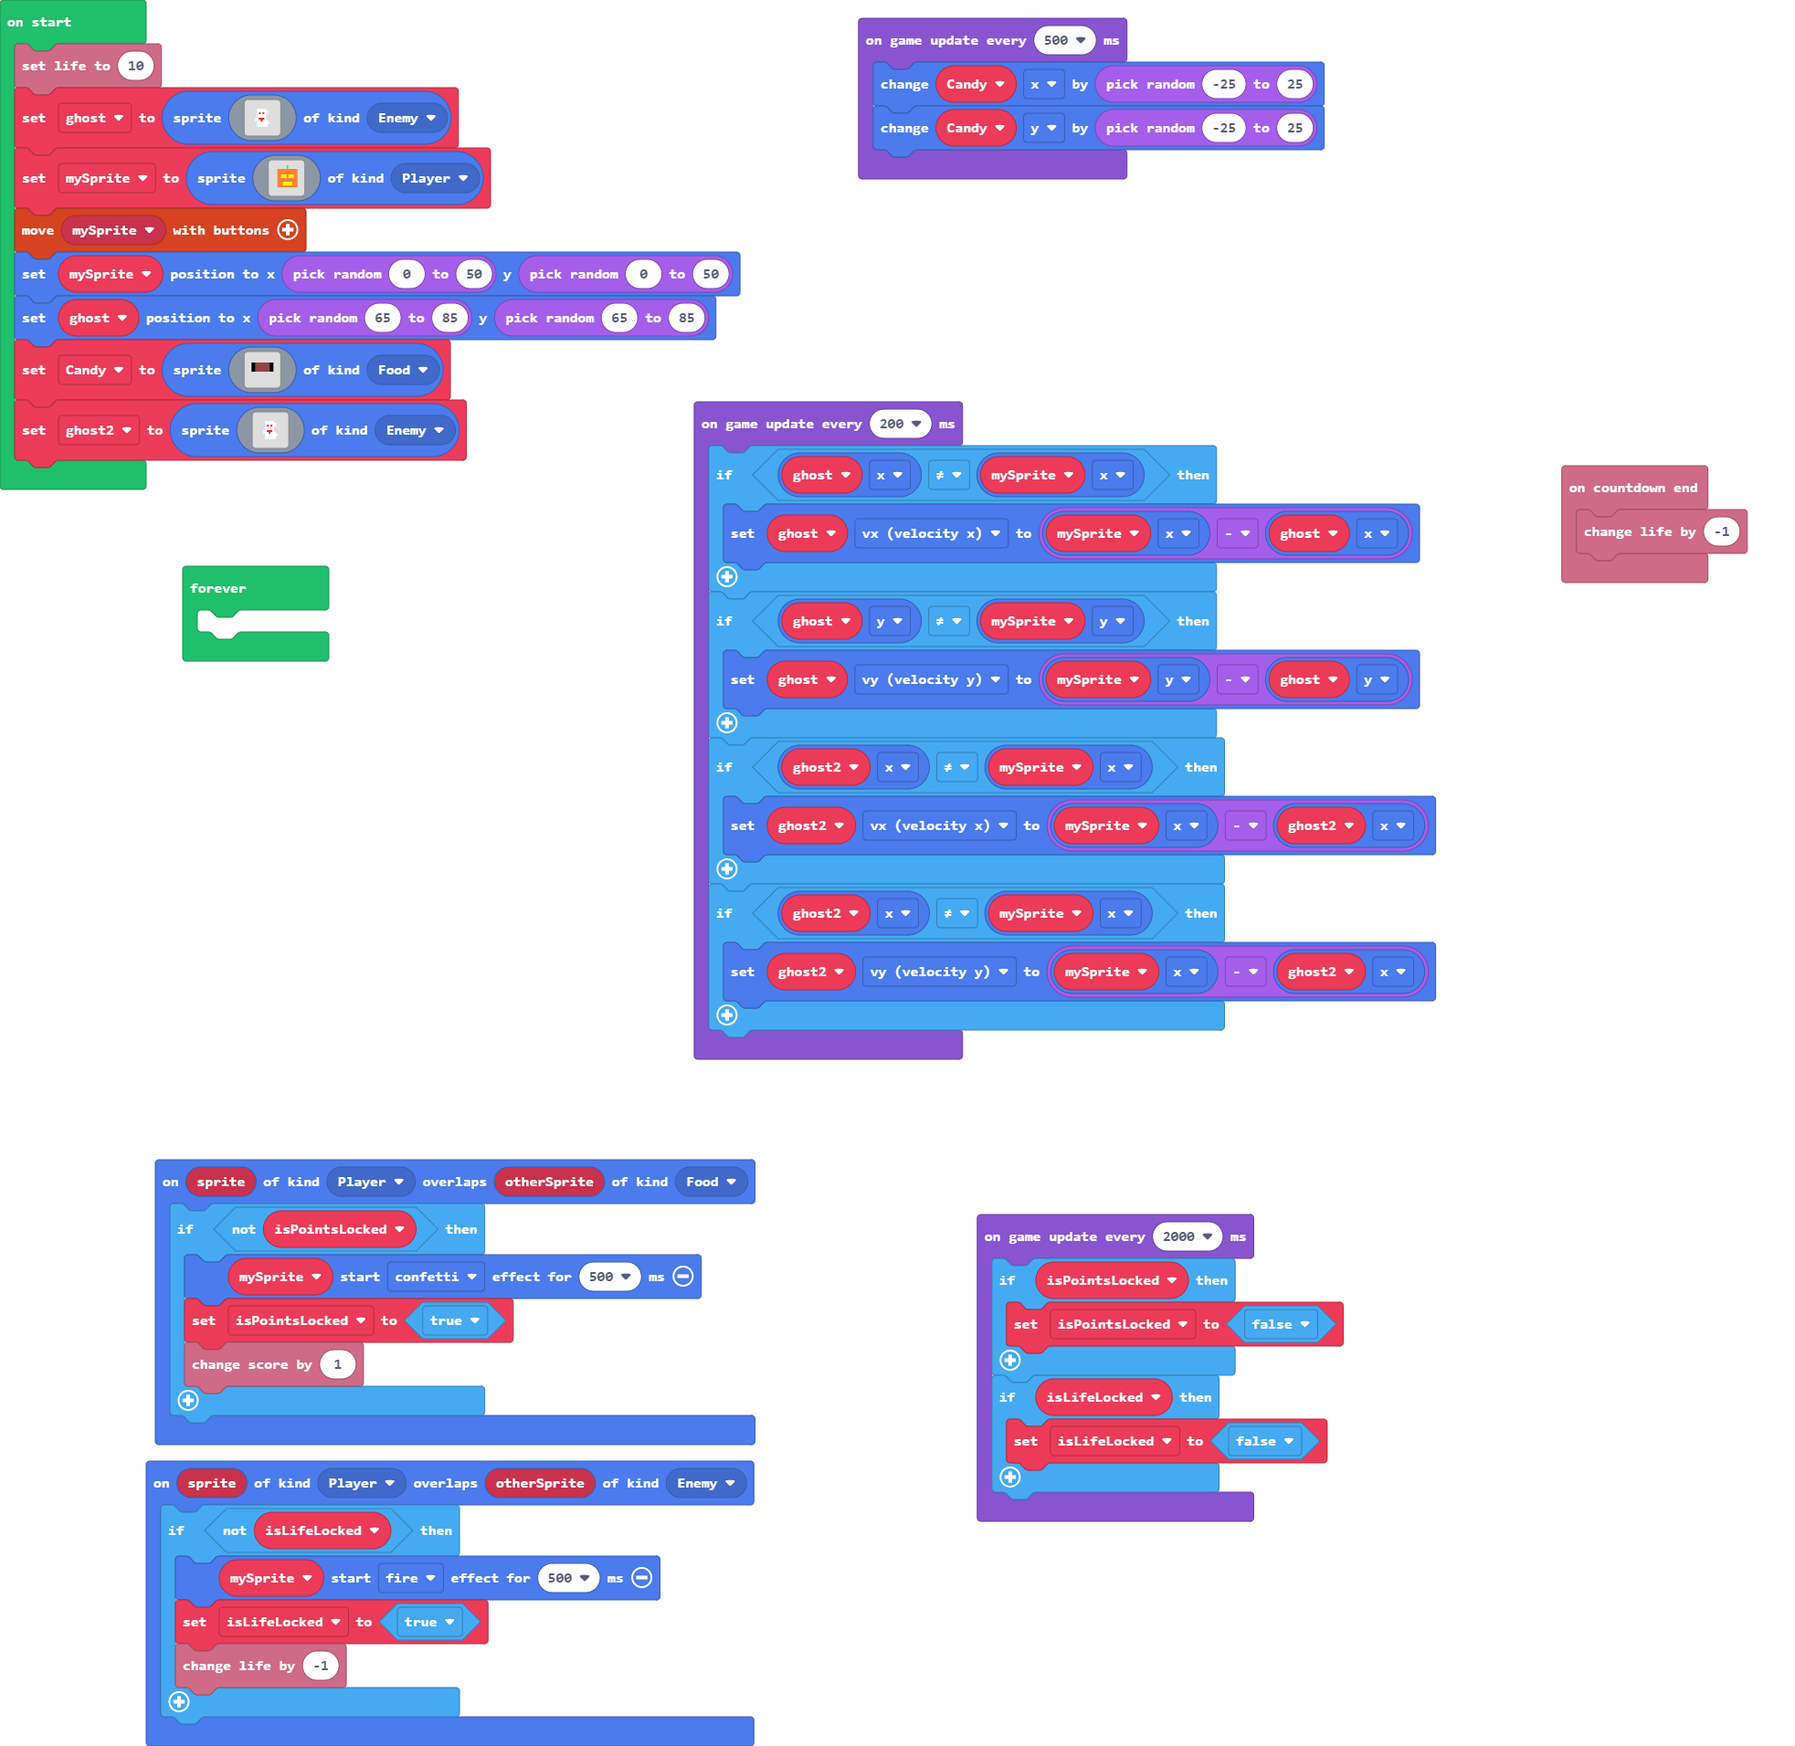
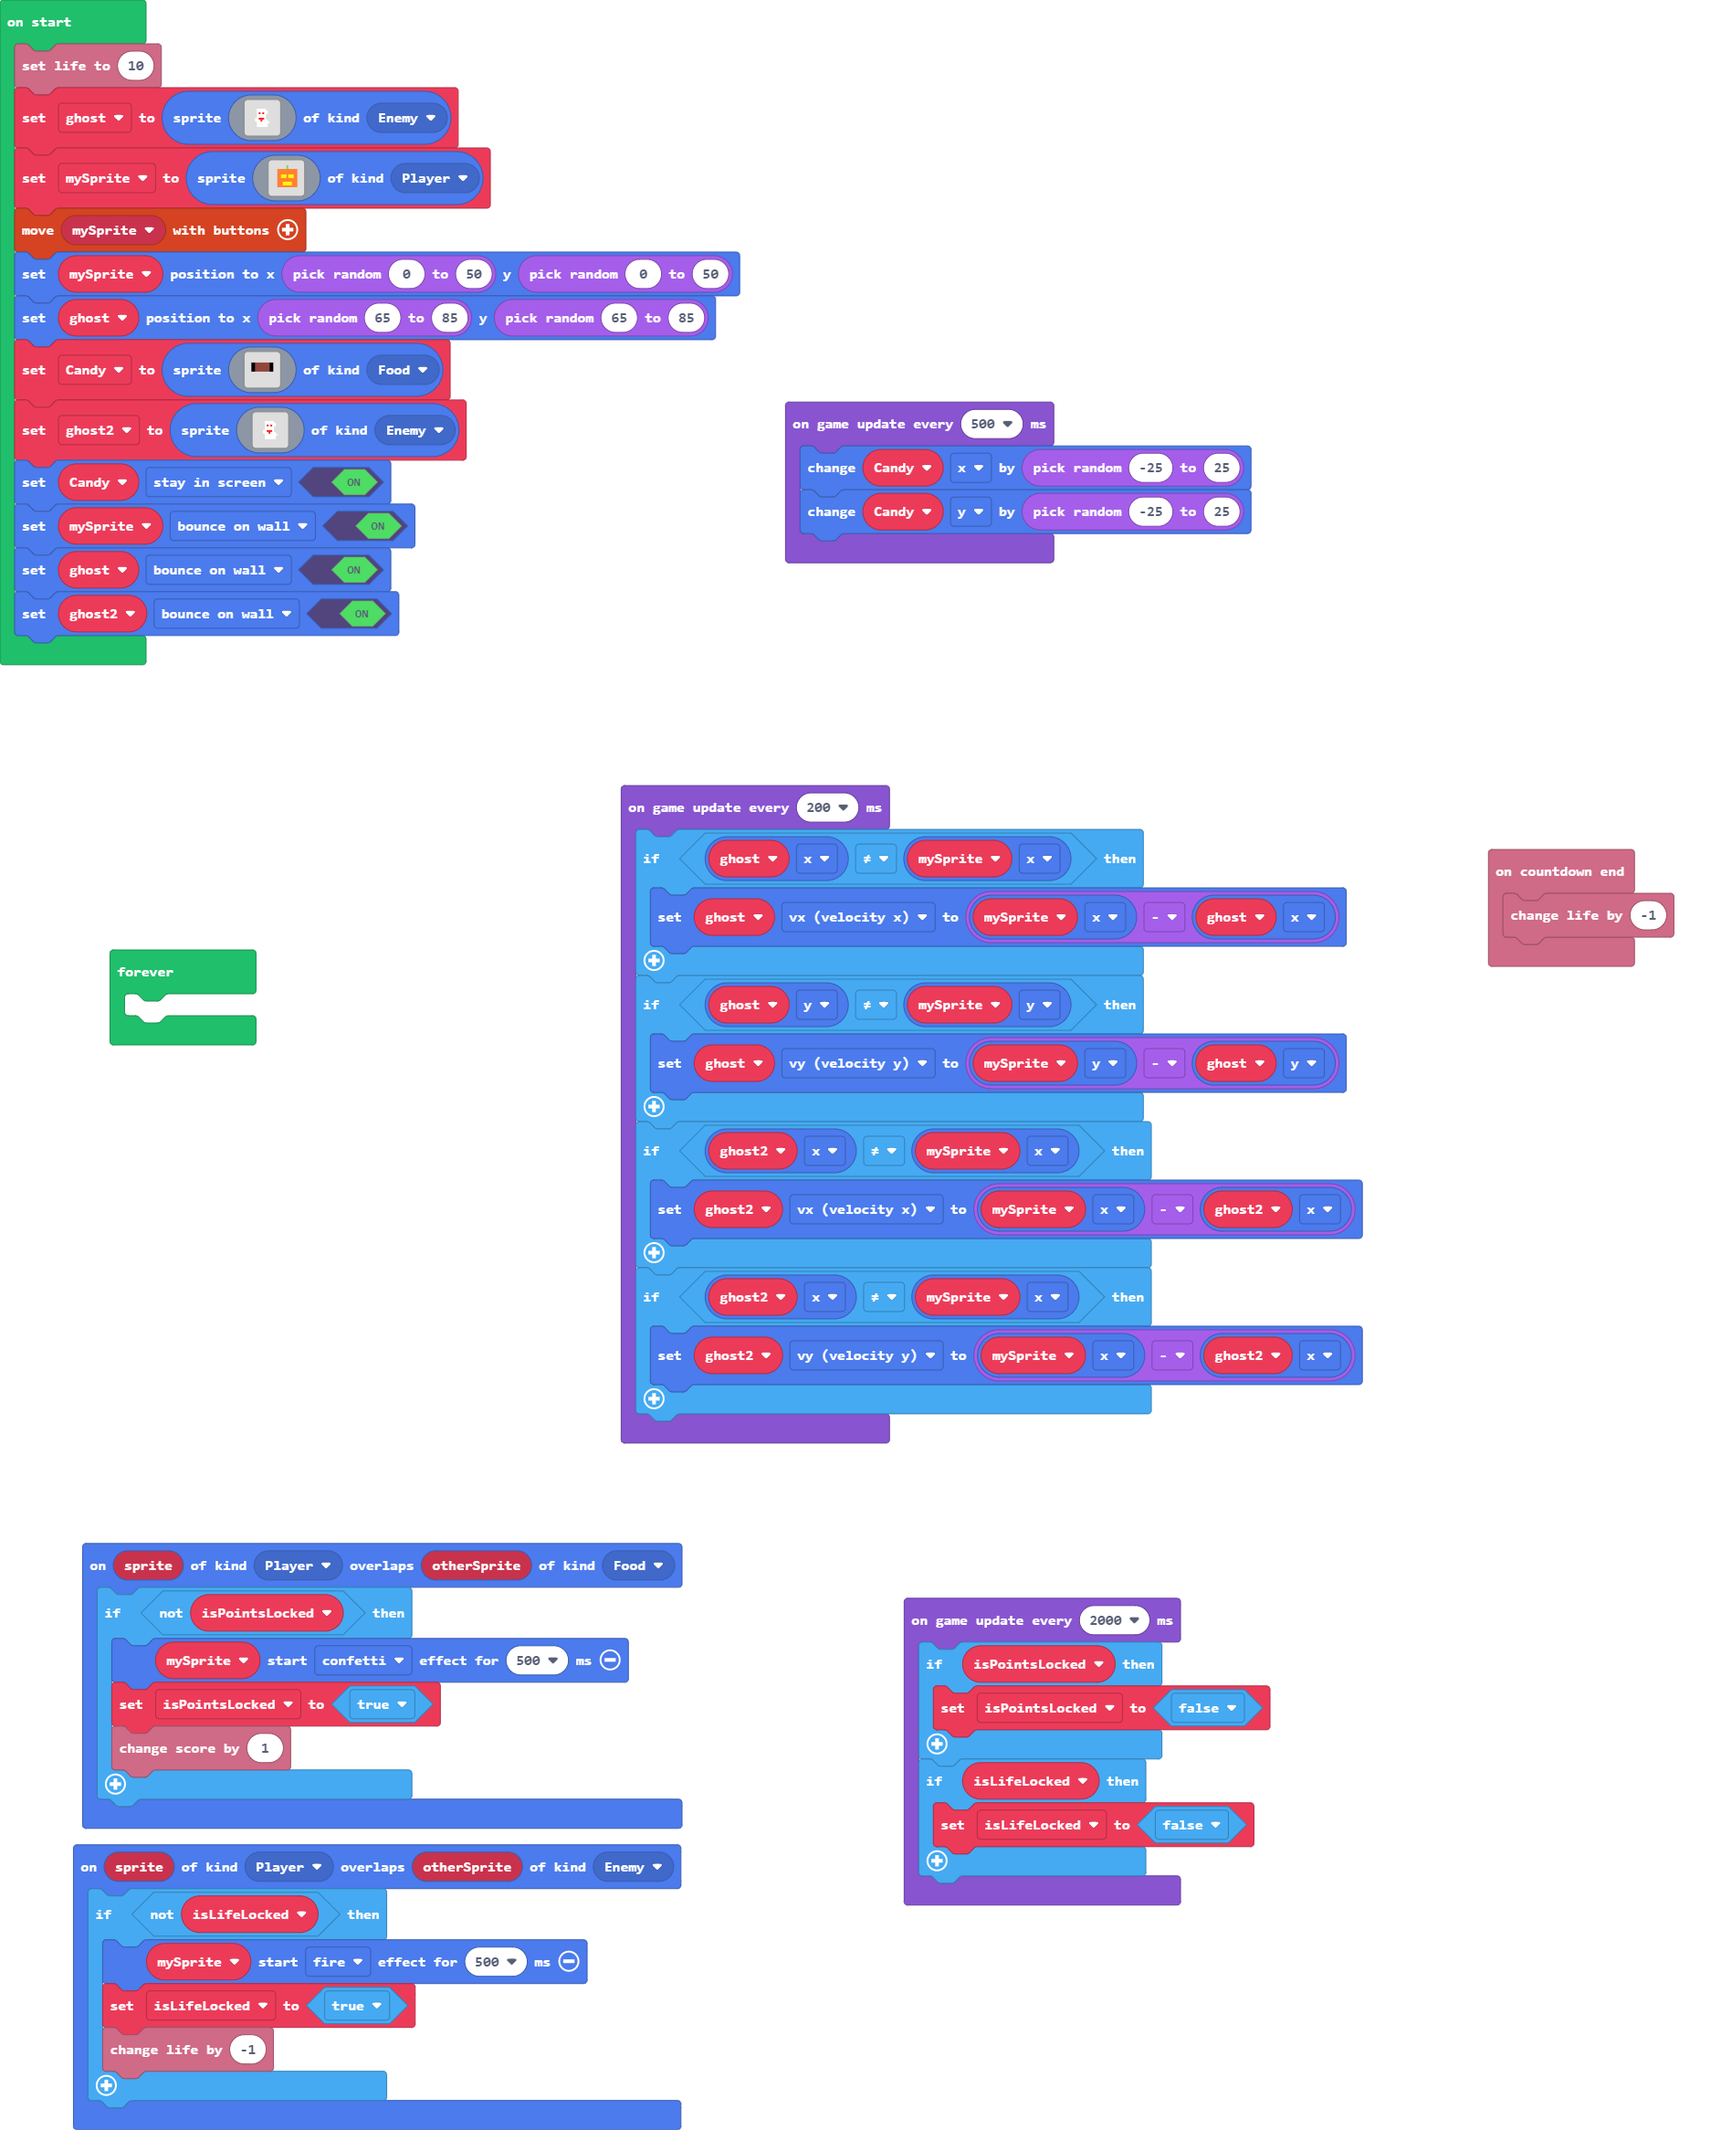
Update main.blocks, main.ts, main.py

diff --git a/main.ts b/main.ts
@@ -94,6 +94,10 @@ let ghost2 = sprites.create(img`
     . . . . . . . . . . . . . . . . 
     . . . . . . . . . . . . . . . . 
     `, SpriteKind.Enemy)
+Candy.setFlag(SpriteFlag.StayInScreen, true)
+mySprite.setFlag(SpriteFlag.BounceOnWall, true)
+ghost.setFlag(SpriteFlag.BounceOnWall, true)
+ghost2.setFlag(SpriteFlag.BounceOnWall, true)
 game.onUpdateInterval(2000, function () {
     if (isPointsLocked) {
         isPointsLocked = false

diff --git a/main.py b/main.py
@@ -3,10 +3,23 @@ def on_countdown_end():
 info.on_countdown_end(on_countdown_end)
 
 def on_on_overlap(sprite, otherSprite):
-    mySprite.start_effect(effects.fire, 500)
-    info.start_countdown(0.25)
-sprites.on_overlap(SpriteKind.player, SpriteKind.enemy, on_on_overlap)
+    global isPointsLocked
+    if not (isPointsLocked):
+        mySprite.start_effect(effects.confetti, 500)
+        isPointsLocked = True
+        info.change_score_by(1)
+sprites.on_overlap(SpriteKind.player, SpriteKind.food, on_on_overlap)
 
+def on_on_overlap2(sprite, otherSprite):
+    global isLifeLocked
+    if not (isLifeLocked):
+        mySprite.start_effect(effects.fire, 500)
+        isLifeLocked = True
+        info.change_life_by(-1)
+sprites.on_overlap(SpriteKind.player, SpriteKind.enemy, on_on_overlap2)
+
+isLifeLocked = False
+isPointsLocked = False
 mySprite: Sprite = None
 info.set_life(10)
 ghost = sprites.create(img("""
@@ -89,16 +102,24 @@ ghost2 = sprites.create(img("""
     """),
     SpriteKind.enemy)
 
+def on_update_interval():
+    global isPointsLocked, isLifeLocked
+    if isPointsLocked:
+        isPointsLocked = False
+    if isLifeLocked:
+        isLifeLocked = False
+game.on_update_interval(2000, on_update_interval)
+
 def on_forever():
     pass
 forever(on_forever)
 
-def on_update_interval():
+def on_update_interval2():
     Candy.x += randint(-25, 25)
     Candy.y += randint(-25, 25)
-game.on_update_interval(500, on_update_interval)
+game.on_update_interval(500, on_update_interval2)
 
-def on_update_interval2():
+def on_update_interval3():
     if ghost.x != mySprite.x:
         ghost.vx = mySprite.x - ghost.x
     if ghost.y != mySprite.y:
@@ -107,4 +128,4 @@ def on_update_interval2():
         ghost2.vx = mySprite.x - ghost2.x
     if ghost2.x != mySprite.x:
         ghost2.vy = mySprite.x - ghost2.x
-game.on_update_interval(200, on_update_interval2)
+game.on_update_interval(200, on_update_interval3)
